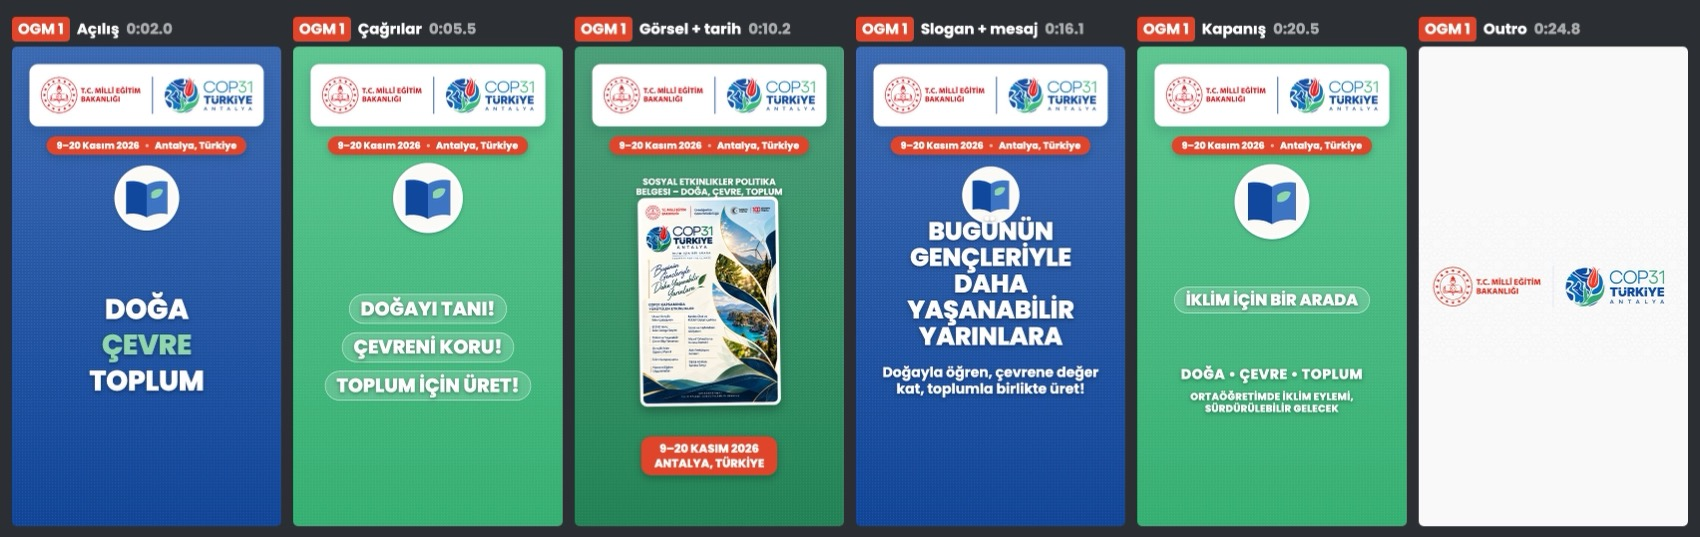
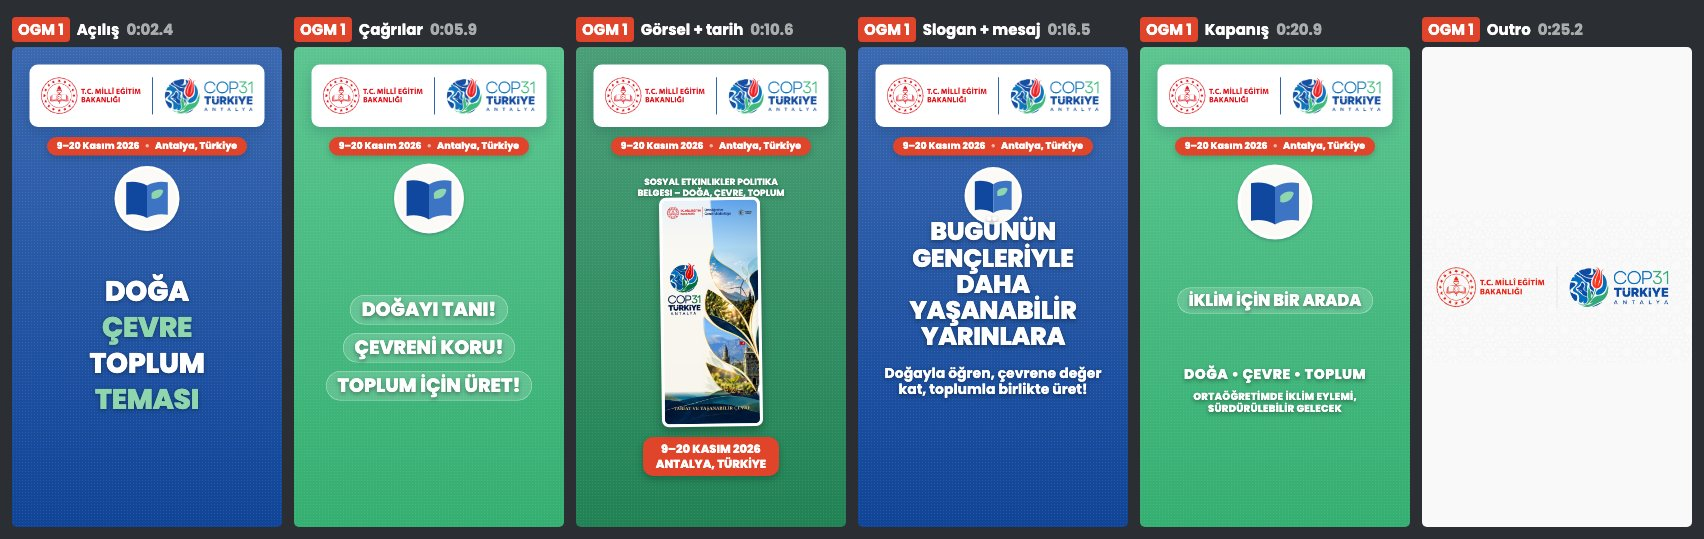
OGM 2. revizesi: yeni görseller, metin düzeltmeleri (1,2,3,6,11,12), paftalar yenilendi

diff --git a/index.html b/index.html
@@ -81,14 +81,14 @@ button, .wa { border:0; border-radius:10px; padding:12px 16px; font:inherit; fon
   <div class="resim"><a href="paftalar/pafta-1.jpg" target="_blank" rel="noopener"><img src="paftalar/pafta-1.jpg" alt="1 · SOSYAL ETKINLIKLER POLITIKA BELGESI – DOĞA, ÇEVRE, TOPLUM — altı an" loading="lazy"></a></div>
   <p class="aciklama">Soldan sağa: açılış, çağrılar, görsel ve tarih, slogan ve mesaj, kapanış, logolar. Büyütmek için görsele tıklayın.<span class="kaydir"> Görseli yana kaydırabilirsiniz.</span></p>
   <ol>
-    <li>Açılış: DOĞA • ÇEVRE • TOPLUM</li>
+    <li>Açılış: DOĞA • ÇEVRE • TOPLUM • TEMASI</li>
     <li>Çağrılar: DOĞAYI TANI! • ÇEVRENİ KORU! • TOPLUM İÇİN ÜRET!</li>
     <li>Görsel: COP31 OGM etkinlikleri afişi (“Bugünün Gençleriyle Daha Yaşanabilir Yarınlara”); tarih bandı: 9–20 KASIM 2026 • ANTALYA, TÜRKİYE</li>
     <li>Ana slogan: BUGÜNÜN GENÇLERİYLE DAHA YAŞANABİLİR YARINLARA; ekran mesajı: Doğayla öğren, çevrene değer kat, toplumla birlikte üret!</li>
     <li>Kapanış: İKLİM İÇİN BİR ARADA + “DOĞA • ÇEVRE • TOPLUM”</li>
     <li>MEB ve COP31 logoları</li>
   </ol>
-  <div class="ses"><b>Seslendirme metni</b>Doğa, çevre, toplum! Doğayı tanı! Çevreni koru! Toplum için üret! Dokuz - yirmi Kasım iki bin yirmi altı, Antalya, Türkiye. Bugünün gençleriyle daha yaşanabilir yarınlara! Doğayla öğren, çevrene değer kat, toplumla birlikte üret! İklim için bir arada!</div>
+  <div class="ses"><b>Seslendirme metni</b>Doğa, çevre, toplum teması! Doğayı tanı! Çevreni koru! Toplum için üret! Dokuz - yirmi Kasım iki bin yirmi altı, Antalya, Türkiye. Bugünün gençleriyle daha yaşanabilir yarınlara! Doğayla öğren, çevrene değer kat, toplumla birlikte üret! İklim için bir arada!</div>
   <div class="karar">
     <label class="sec onay"><input type="radio" id="k1o" name="k1" value="onay"> Onaylıyorum</label>
     <label class="sec duz"><input type="radio" id="k1d" name="k1" value="duzeltme"> Düzeltme istiyorum</label>
@@ -101,14 +101,14 @@ button, .wa { border:0; border-radius:10px; padding:12px 16px; font:inherit; fon
   <div class="resim"><a href="paftalar/pafta-2.jpg" target="_blank" rel="noopener"><img src="paftalar/pafta-2.jpg" alt="2 · TABIAT VE YAŞANABILIR ÇEVRE KULÜBÜ — altı an" loading="lazy"></a></div>
   <p class="aciklama">Soldan sağa: açılış, çağrılar, görsel ve tarih, slogan ve mesaj, kapanış, logolar. Büyütmek için görsele tıklayın.<span class="kaydir"> Görseli yana kaydırabilirsiniz.</span></p>
   <ol>
-    <li>Açılış: YENİDEN YAPILANDIRILMIŞ KULÜP • TÜM OKULLARIMIZDA</li>
+    <li>Açılış: YENİDEN YAPILANDIRILMIŞ • TEMEL KULÜP • TÜM OKULLARIMIZDA</li>
     <li>Çağrılar: KATIL! • HAREKETE GEÇ!</li>
     <li>Görsel: Kulüp tanıtım görseli veya okul kulüp etkinliklerinden fotoğraflar — <b>klasörde bu etkinliğin afişi olmadığından genel COP31 OGM afişi kullanıldı</b>; tarih bandı: 9–20 KASIM 2026 • ANTALYA, TÜRKİYE</li>
     <li>Ana slogan: OKULDAN DOĞAYA; ekran mesajı: Okulunda başla, doğa için harekete geç!</li>
     <li>Kapanış: ADIM SENDE / DOĞA SENDE + “DOĞA • ÇEVRE • TOPLUM”</li>
     <li>MEB ve COP31 logoları</li>
   </ol>
-  <div class="ses"><b>Seslendirme metni</b>Yeniden yapılandırılmış kulüp, tüm okullarımızda! Katıl! Harekete geç! Dokuz - yirmi Kasım iki bin yirmi altı, Antalya, Türkiye. Okuldan doğaya! Okulunda başla, doğa için harekete geç! Adım sende, doğa sende!</div>
+  <div class="ses"><b>Seslendirme metni</b>Yeniden yapılandırılmış temel kulüp, tüm okullarımızda! Katıl! Harekete geç! Dokuz - yirmi Kasım iki bin yirmi altı, Antalya, Türkiye. Okuldan doğaya! Okulunda başla, doğa için harekete geç! Adım sende, doğa sende!</div>
   <div class="karar">
     <label class="sec onay"><input type="radio" id="k2o" name="k2" value="onay"> Onaylıyorum</label>
     <label class="sec duz"><input type="radio" id="k2d" name="k2" value="duzeltme"> Düzeltme istiyorum</label>
@@ -124,7 +124,7 @@ button, .wa { border:0; border-radius:10px; padding:12px 16px; font:inherit; fon
     <li>Açılış: 81 İL • 81 GENÇ DELEGE</li>
     <li>Çağrılar: İLİNİ ANLAT! • YEREL BAK, KÜRESEL DÜŞÜN!</li>
     <li>Görsel: 81 İl 81 Genç İklim Delegesi afişi veya delegelerin fotoğrafları; tarih bandı: 19 KASIM 2026 • 81 İLDEN ANTALYA'YA</li>
-    <li>Ana slogan: 81 İLDEN COP31'E TEK SES; ekran mesajı: 81 il, 81 genç, iklim için ortak ses!</li>
+    <li>Ana slogan: 81 İLDEN COP 31'E TEK SES; ekran mesajı: 81 il, 81 genç, iklim için ortak ses!</li>
     <li>Kapanış: TEMSİL SENDE / SORUMLULUK SENDE + “DOĞA • ÇEVRE • TOPLUM”</li>
     <li>MEB ve COP31 logoları</li>
   </ol>
@@ -181,14 +181,14 @@ button, .wa { border:0; border-radius:10px; padding:12px 16px; font:inherit; fon
   <div class="resim"><a href="paftalar/pafta-6.jpg" target="_blank" rel="noopener"><img src="paftalar/pafta-6.jpg" alt="6 · GENÇLIK İKLIM ÖĞRENCI PANELI — altı an" loading="lazy"></a></div>
   <p class="aciklama">Soldan sağa: açılış, çağrılar, görsel ve tarih, slogan ve mesaj, kapanış, logolar. Büyütmek için görsele tıklayın.<span class="kaydir"> Görseli yana kaydırabilirsiniz.</span></p>
   <ol>
-    <li>Açılış: 5 İL • 5 ÖĞRENCİ • 5 ÖĞRETMEN</li>
+    <li>Açılış: 10 İL • 10 ÖĞRENCİ • 10 ÖĞRETMEN</li>
     <li>Çağrılar: SOR! DİNLE! TARTIŞ! • BİLİMİ KONUŞ!</li>
     <li>Görsel: Panel ve sempozyum afişi veya program görseli; tarih bandı: 19 KASIM 2026 • ANTALYA</li>
     <li>Ana slogan: İKLİM İÇİN SÖZ GENÇLERDE; ekran mesajı: Söz gençlerde, gündem iklim, hedef yaşanabilir bir gelecek! / Bilimle araştır, iklimi anla, geleceğe katkı sun!</li>
     <li>Kapanış: FİKİR SENDE / EYLEM SENDE + “DOĞA • ÇEVRE • TOPLUM”</li>
     <li>MEB ve COP31 logoları</li>
   </ol>
-  <div class="ses"><b>Seslendirme metni</b>Beş il, beş öğrenci, beş öğretmen! Sor! Dinle! Tartış! Bilimi konuş! On dokuz Kasım iki bin yirmi altı, Antalya. İklim için söz gençlerde! Söz gençlerde, gündem iklim, hedef yaşanabilir bir gelecek! Bilimle araştır, iklimi anla, geleceğe katkı sun! Fikir sende, eylem sende!</div>
+  <div class="ses"><b>Seslendirme metni</b>On il, on öğrenci, on öğretmen! Sor! Dinle! Tartış! Bilimi konuş! On dokuz Kasım iki bin yirmi altı, Antalya. İklim için söz gençlerde! Söz gençlerde, gündem iklim, hedef yaşanabilir bir gelecek! Bilimle araştır, iklimi anla, geleceğe katkı sun! Fikir sende, eylem sende!</div>
   <div class="karar">
     <label class="sec onay"><input type="radio" id="k6o" name="k6" value="onay"> Onaylıyorum</label>
     <label class="sec duz"><input type="radio" id="k6d" name="k6" value="duzeltme"> Düzeltme istiyorum</label>
@@ -304,11 +304,11 @@ button, .wa { border:0; border-radius:10px; padding:12px 16px; font:inherit; fon
     <li>Açılış: 30 İL • 1 ORTAK BİLDİRGE</li>
     <li>Çağrılar: DÜŞÜN! TARTIŞ! ÖNER! • SESİNİ YÜKSELT!</li>
     <li>Görsel: Çalıştay fotoğrafları ve bildirge kapak görselleri; tarih bandı: BİLDİRGELER: 19 KASIM 2026 • ANTALYA</li>
-    <li>Ana slogan: GENÇ SESLER, ORTAK GELECEK; ekran mesajı: 30 ilden genç fikirler, iklim için ortak çözümler!</li>
+    <li>Ana slogan: GENÇ SESLER, ORTAK GELECEK; ekran mesajı: 30 ilden genç fikirler, iklim için ortak çözümler! / Ortak bildirge Türkçe, İngilizce, Arapça ve İspanyolca okunacak!</li>
     <li>Kapanış: SÖZ SENDE / GELECEK SENDE + “DOĞA • ÇEVRE • TOPLUM”</li>
     <li>MEB ve COP31 logoları</li>
   </ol>
-  <div class="ses"><b>Seslendirme metni</b>Otuz il, bir ortak bildirge! Düşün! Tartış! Öner! Sesini yükselt! Bildirgeler, on dokuz Kasım iki bin yirmi altı, Antalya. Genç sesler, ortak gelecek! Otuz ilden genç fikirler, iklim için ortak çözümler! Söz sende, gelecek sende!</div>
+  <div class="ses"><b>Seslendirme metni</b>Otuz il, bir ortak bildirge! Düşün! Tartış! Öner! Sesini yükselt! Bildirgeler, on dokuz Kasım iki bin yirmi altı, Antalya. Genç sesler, ortak gelecek! Otuz ilden genç fikirler, iklim için ortak çözümler! Ortak bildirge Türkçe, İngilizce, Arapça ve İspanyolca okunacak! Söz sende, gelecek sende!</div>
   <div class="karar">
     <label class="sec onay"><input type="radio" id="k12o" name="k12" value="onay"> Onaylıyorum</label>
     <label class="sec duz"><input type="radio" id="k12d" name="k12" value="duzeltme"> Düzeltme istiyorum</label>
